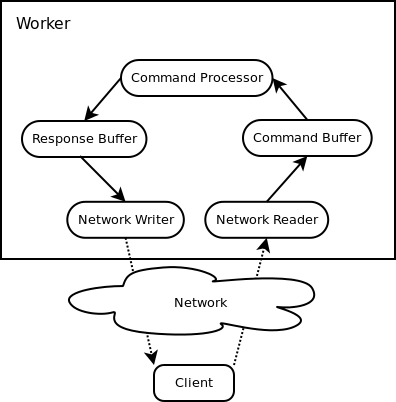
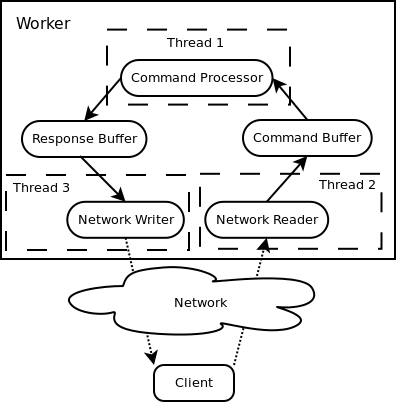
Changed the server design section round a little. Added a section about synchronisation and tried to explain everything in more details

diff --git a/TP3/dissertation/Design/server.tex b/TP3/dissertation/Design/server.tex
@@ -10,9 +10,49 @@ The GIM server is primarily responsible for synchronising the communication betw
     \item{Storing user information such as nicknames, passwords, display pictures, friend lists, etc.}
 \end{itemize}
 
-\subsection{Key Concepts}
+\subsection{Server Structure}
 
-\subsubsection{User}
+From the very beginning the server was designed to be secure, scalable, and simple. Users must trust it to keep their information safe and route messages correctly, and it must be able to cope with any number of connected clients.
+
+In order to manage this, the server generates a new worker for every connected client. This new worker acts as the single point of contact for its respective client. This greatly simplifies the design of the server as we can treat each connection individually and allows the server to easily scale to a large number of clients.
+
+\begin{figure}[!h]
+    \begin{center}
+        \includegraphics[scale=0.6]{Design/diagrams/server_workers.png}
+        \caption{The GIM Server with 3 connected clients, each with their own worker.}
+        \label{WorkersDia}
+    \end{center}
+\end{figure}
+
+Each worker has 2 buffers, one which stores commands read from the network (the command buffer), and one which stores commands to be written to the network (the response buffer). The worker continually reads commands from the command buffer, processes them, and puts the responses into the response buffer. At the same time the worker is also performing network reads and writes to fill and empty the respective buffers.
+
+The buffers allow the worker to run using several threads which increases the performance on multi-core systems as the server is able to read from the network, process commands, and write to the network in a truly concurrent fashion. This mean that at any one time a worker could be handling up to 3 different commands, each at a different stage of execution, and still have several commands stored in the buffers waiting to be used.
+
+\begin{figure}[!h]
+    \begin{center}
+        \includegraphics[scale=0.6]{Design/diagrams/worker_detail.png}
+        \caption{The internal components of a single worker.}
+        \label{WorkerDatailedDia}
+    \end{center}
+\end{figure}
+
+\subsection{Client-to-Client Messaging}
+\label{c2c}
+No direct client to client communication is possible, however workers are able to indirectly communicate with other clients (i.e. clients to which they are not connected) by passing commands to the other client's worker. This is the server's main method of inter-client communication and relies heavily on the use of the buffers to pass messages from one worker to the network writer or command processor of another worker.
+
+As the protocol defines no client to client communication is possible before a user has logged in, and as user can only be logged in on one client at a time, only a user id is necessary to send a command to a user. As long as a record is kept of which worker belongs to each online user then sending a message to a user is no more complicated that identifying the particular user.
+
+\subsection{Message Routing}
+
+Message routing in the server is fairly simple because of the use of Rooms. A Room is a collection of one or more users and each Room has a unique identifier. In order to join a Room a user must either create a new Room (in which case they are automatically placed into the Room) or they must be invited to the Room by a user already in the Room. A Room can be one of two types: Personal or Group. A Personal Room is much more restrictive than a Group Room. A Personal Room must be provided with the identifier of one other user at time of creation and is limited to only 2 users. Once a Personal Room has been created you cannot invite any other users. A Group Room has no such restrictions. Any number of users may be invited to a Group Room at any time.
+
+All chat messages in GIM are sent to Rooms rather than particular users. The server must maintain a list of the users in each room, and open receiving a message for that room, forward it to all of the users in the room (excluding the sender of the message). This is done using the method described in section \ref{c2c}. A \texttt{:MESSAGE:} command is generated and placed into the Response Buffer of the worker assigned to each of the recipients ready for the worker to send to the client.
+
+\subsection{Subscriptions and Notifications}
+One of the servers most critical responsibilities is notifying users of changes to the users they are subscribed to. A user is considered to be subscribed to users who are in their friend list or both users are currently in the same Room.
+
+\subsection{User Accounts}
+
 A user is a registered account on the server with a unique identifier (an email address), password, nickname, personal message, display picture, status, and friend list. 
 
 \subsubsection{Identification}
@@ -27,13 +67,6 @@ The personal message is a medium length message (usually only a sentence or two)
 \subsubsection{Display Picture}
 A Display Picture is a small image chosen by the user, often of themselves, so that they can be easily identified visually. By default a user's display picture is the GIM logo. 
 
-\subsubsection{Room}
-A Room is a collection of one or more users and each Room has a unique identifier. All chat messages in GIM are sent to Rooms rather than particular users. The server then forwards messages from the room to the users in the room.
-
-In order to join a Room a user must either create a new Room (in which case they are automatically placed into the Room) or they must be invited to the Room by a user already in the Room. 
-
-A Room can be one of two types: Personal or Group. A Personal Room is much more restrictive than a Group Room. A Personal Room must be provided with the identifier of one other user at time of creation and is limited to only 2 users. Once a Personal Room has been created you cannot invite any other users. A Group Room has no such restrictions. Any number of users may be invited to a Group Room at any time.
-
 \subsubsection{Status}
 A user can have one of several statuses: Online, Away, Busy and Appear Offline. The first three statuses are used simply as an indication of the user's likelihood to respond to a message. The Appear Offline status allows the user to appear to other users as though they were not signed in but still receive updates and messages from other users.
 
@@ -45,33 +78,29 @@ A user is considered to be `subscribed' to all of the users in their Friend List
 \subsubsection{Blocked User}
 A user is able to stop a another user from communicating with them and viewing their information by blocking that user. It is possible to block any user, even users not currently in your friend list. Blocking a user is a one-way process and does not stop a user from messaging or viewing information about users they have blocked.
 
-\subsection{Server Structure}
+\subsection{Synchronisation}
 
-From the very beginning the server was designed to be secure, scalable, and simple. Users must trust it to keep their information safe and route messages correctly, and it must be able to cope with any number of connected clients.
-
-In order to manage this, the server generates a new worker for every connected client. This new worker acts as the single point of contact for its respective client. This greatly simplifies the design of the server as we can treat each connection individually and allows the server to easily scale to a large number of clients.
+The server has a large section of backing data which stores all of the users, rooms, workers and any other operational data required by the server. Due to the highly concurrent nature of the server it is very important to ensure that the data is properly synchronised. This is to prevent race conditions where two writes occur on an object at the same time giving an unpredictable output. 
 
 \begin{figure}[!h]
     \begin{center}
-        \includegraphics[scale=0.75]{Design/diagrams/server_workers.png}
-        \caption{The GIM Server with 3 connected clients, each with their own worker.}
-        \label{WorkersDia}
+        \includegraphics[scale=0.6]{Design/diagrams/server_race_condition.png}
+        \caption{Unsynchronised workers updating the same object at the same time, resulting in a race condition and giving the unexpected value of 6 rather than 7.}
+        \label{RaceConditionDia}
     \end{center}
 \end{figure}
 
-Each worker has 2 buffers, one which stores commands read from the network (the command buffer), and one which stores commands to be written to the network (the response buffer). The worker continually reads commands from the command buffer, processes them, and puts the responses into the response buffer. At the same time the worker is also performing network reads and writes to fill and empty the respective buffers.
+To stop this the server must lock (claim ownership of) the data before it is updated. This is a very tricky thing to do as as the lock must be long enough to ensure that no updates occur between reading the original data and writing the updated data, whilst also keeping the lock as short as possible to avoid long periods of blocking and keep performance high.
 
 \begin{figure}[!h]
     \begin{center}
-        \includegraphics[scale=0.75]{Design/diagrams/worker_detail.png}
-        \caption{A more detailed diagram of what happens inside a worker.}
-        \label{WorkerDatailedDia}
+        \includegraphics[scale=0.6]{Design/diagrams/server_locking.png}
+        \caption{Synchronised workers using locking to read and write the updated value, giving the expected value of 7.}
+        \label{lockingDia}
     \end{center}
 \end{figure}
 
-Workers are able to indirectly communicate with other clients by putting commands into other workers' buffers. Since the command still passes through the worker assigned to the client, this allows a worker to pass requests and messages from one client to another without directly communicating with the other client. 
-
-The server also has a large section of backing data which stores all of the users, rooms, workers and any other operational data required by the server. Any worker can read and modify this data at any time so care must be taken to ensure that synchronisation problems are avoided.
+This means that the data must be carefully managed...blah
 
 \newpage
 \begin{landscape}

diff --git a/TP3/dissertation/Design/protocol.tex b/TP3/dissertation/Design/protocol.tex
@@ -136,7 +136,7 @@ A prime example of this is the \texttt{:FRIEND:} command. What was originally 6 
 
 There are still some commands which could arguably benefit from being merged. For example, it would make sense for the \texttt{:LOGOUT:} command to be part of the \texttt{:AUTH:} command which allows clients to login and register; all of these actions are conceptually similar. However, the \texttt{:LOGOUT:} command is not available unless the user is in the logged-in state, so one could argue that it should not be part of the \texttt{:AUTH:} command. The decision to keep them separate was made purely on personal preference as there were no clear advantages for either choice. 
 
-During the implementation of GIM, there were several modifications made to the format of the data segment for some commands. These were brought on by a desire to keep the protocol consistent across all commands. There was often a sense of confusion about how the data segment for each command was split into sections as each command had a different format; some used newlines, some used commas, and some used spaces as separators. In the end we chose to use spaces as separators in all commands except the \texttt{:INFO:} command where newlines made more sense. 
+During the implementation of GIM there were several modifications made to the format of the data segment for some commands. These were brought on by a desire to keep the protocol consistent across all commands. There was often a sense of confusion about how the data segment for each command was split into sections as each command had a different format; some used newlines, some used commas, and some used spaces as separators. In the end we chose to use spaces as separators in all commands except the \texttt{:INFO:} command where newlines made more sense. 
 
 (Something about errors and how to improve the current situation)
 
